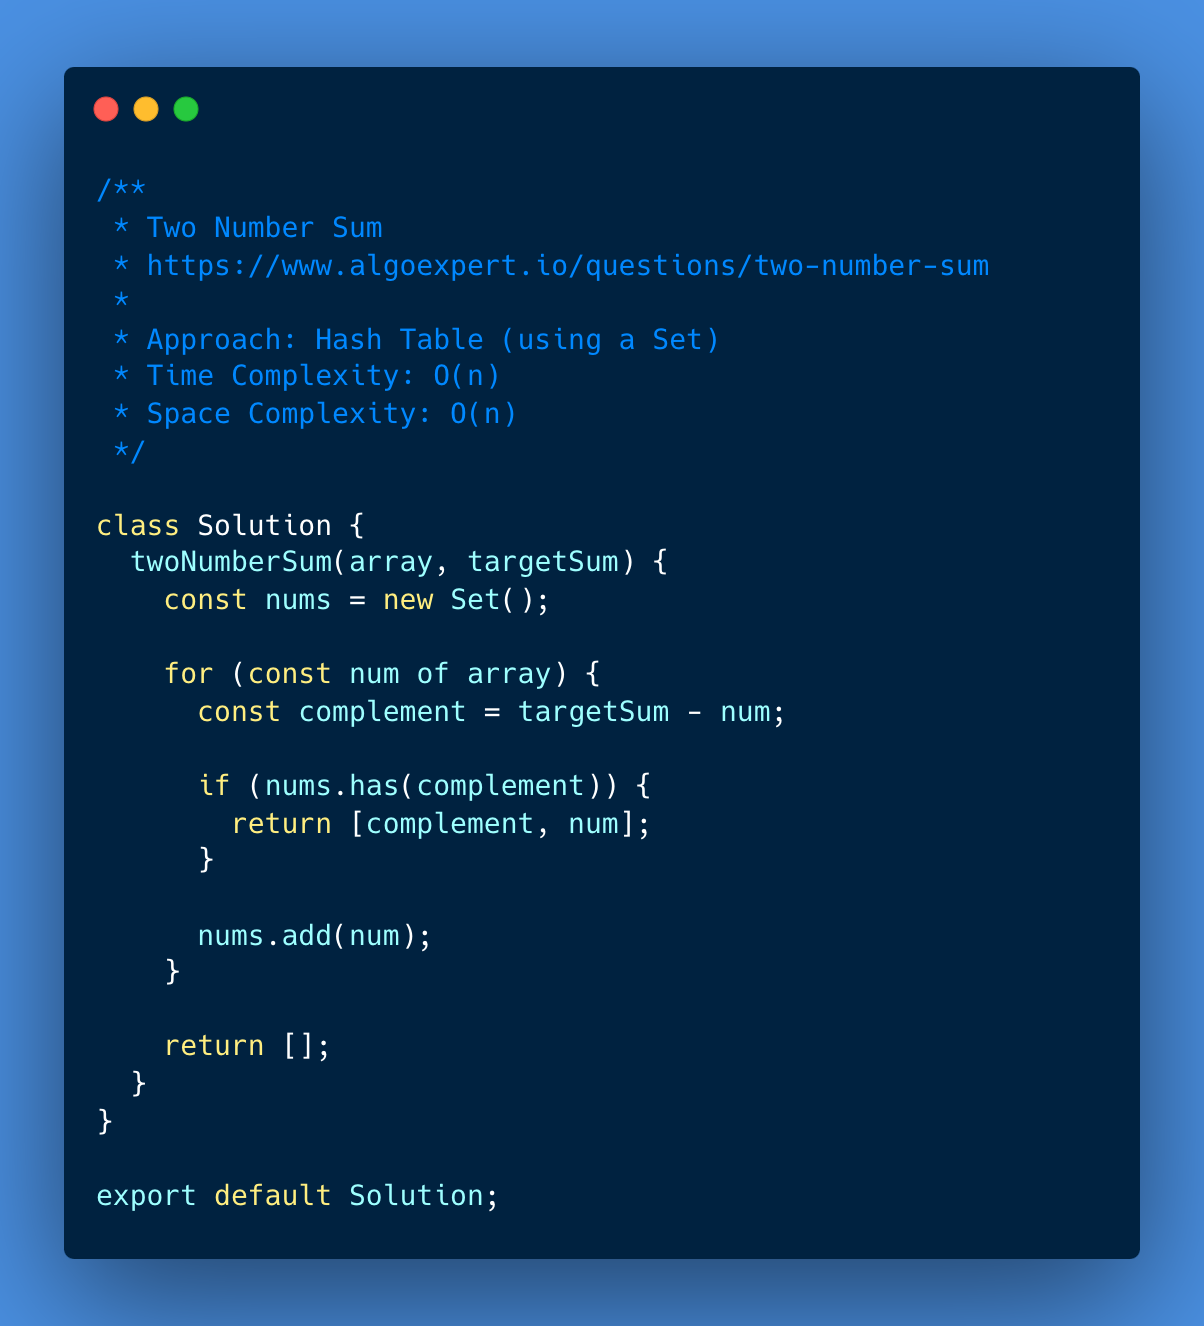
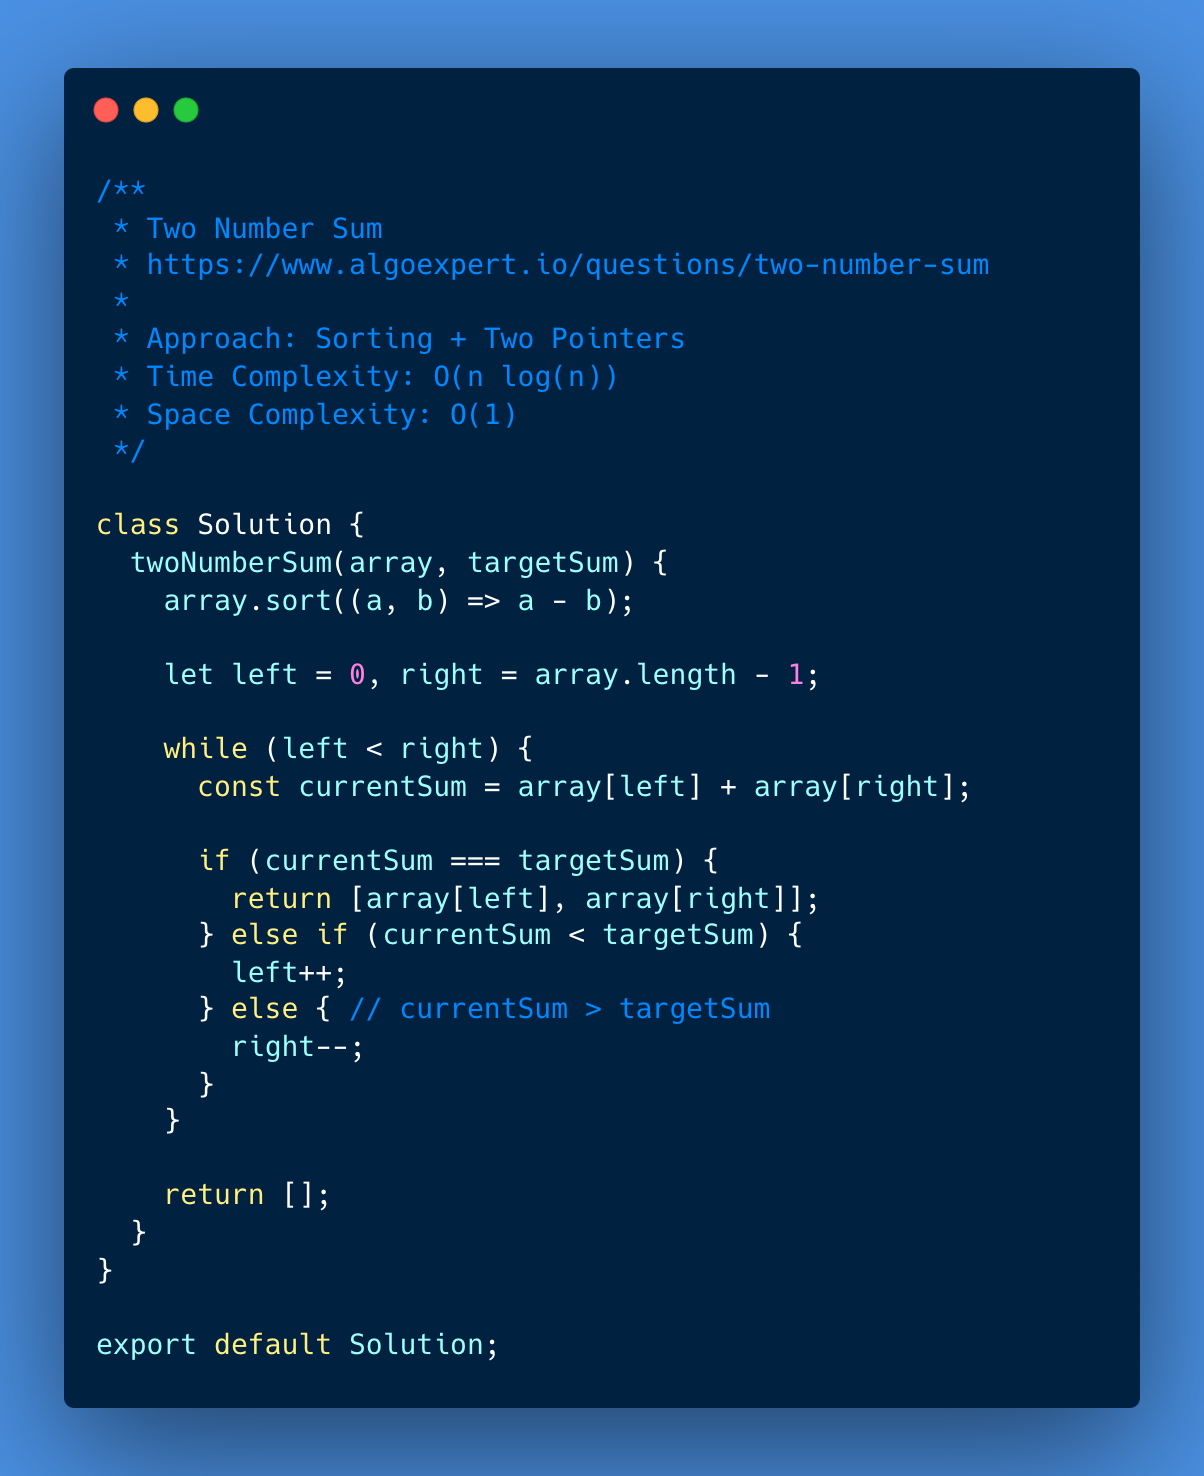
Two Number Sum updates

diff --git a/002-algoexpert/001-two-number-sum/003-solution/Solution.js b/002-algoexpert/001-two-number-sum/003-solution/Solution.js
@@ -2,23 +2,27 @@
  * Two Number Sum
  * https://www.algoexpert.io/questions/two-number-sum
  * 
- * Approach: Hash Table (using a Set)
- * Time Complexity: O(n)
- * Space Complexity: O(n)
+ * Approach: Sorting + Two Pointers
+ * Time Complexity: O(n log(n))
+ * Space Complexity: O(1)
  */
 
 class Solution {
   twoNumberSum(array, targetSum) {
-    const nums = new Set();
+    array.sort((a, b) => a - b);
 
-    for (const num of array) {
-      const complement = targetSum - num;
+    let left = 0, right = array.length - 1;
 
-      if (nums.has(complement)) {
-        return [complement, num];
+    while (left < right) {
+      const currentSum = array[left] + array[right];
+
+      if (currentSum === targetSum) {
+        return [array[left], array[right]];
+      } else if (currentSum < targetSum) {
+        left++;
+      } else { // currentSum > targetSum
+        right--;
       }
-
-      nums.add(num);
     }
 
     return [];

diff --git a/002-algoexpert/001-two-number-sum/002-solution/Solution.js b/002-algoexpert/001-two-number-sum/002-solution/Solution.js
@@ -2,23 +2,23 @@
  * Two Number Sum
  * https://www.algoexpert.io/questions/two-number-sum
  * 
- * Approach: Hash Table (using an object)
+ * Approach: Hash Table (using a Set)
  * Time Complexity: O(n)
  * Space Complexity: O(n)
  */
 
 class Solution {
   twoNumberSum(array, targetSum) {
-    const nums = {};
+    const nums = new Set();
 
     for (const num of array) {
       const complement = targetSum - num;
 
-      if (nums[complement]) {
+      if (nums.has(complement)) {
         return [complement, num];
       }
 
-      nums[num] = true;
+      nums.add(num);
     }
 
     return [];

diff --git a/002-algoexpert/001-two-number-sum/003-solution/__tests__/Solution.test.js b/002-algoexpert/001-two-number-sum/003-solution/__tests__/Solution.test.js
@@ -1,6 +1,6 @@
 import Solution from "../Solution";
 import { sharedTests } from "../../__shared__/shared.test";
 
-describe('twoNumberSum (hash-table-set)', () => {
+describe('twoNumberSum (sorting-two-pointers)', () => {
   sharedTests(() => new Solution());
 });

diff --git a/002-algoexpert/001-two-number-sum/002-solution/__tests__/Solution.test.js b/002-algoexpert/001-two-number-sum/002-solution/__tests__/Solution.test.js
@@ -1,6 +1,6 @@
 import Solution from "../Solution";
 import { sharedTests } from "../../__shared__/shared.test";
 
-describe('twoNumberSum (hash-table-object)', () => {
+describe('twoNumberSum (hash-table-set)', () => {
   sharedTests(() => new Solution());
 });

diff --git a/002-algoexpert/001-two-number-sum/README.md b/002-algoexpert/001-two-number-sum/README.md
@@ -5,7 +5,6 @@
 - [Problem](#problem)
 - [Solution](#solution)
   - [Brute Force](#brute-force)
-  - [Hash Table (using an object)](#hash-table-using-an-object)
   - [Hash Table (using a set)](#hash-table-using-a-set)
   - [Sorting + Two Pointers](#sorting--two-pointers)
 - [Test Results](#test-results)
@@ -20,17 +19,13 @@
 
 ![Two Number Sum](./001-solution.png)
 
-### Hash Table (using an object)
+### Hash Table (using a set)
 
 ![Two Number Sum](./002-solution.png)
 
-### Hash Table (using a set)
-
-![Two Number Sum](./003-solution.png)
-
 ### Sorting + Two Pointers
 
-![Two Number Sum](./004-solution.png)
+![Two Number Sum](./003-solution.png)
 
 ## Test Results
 
